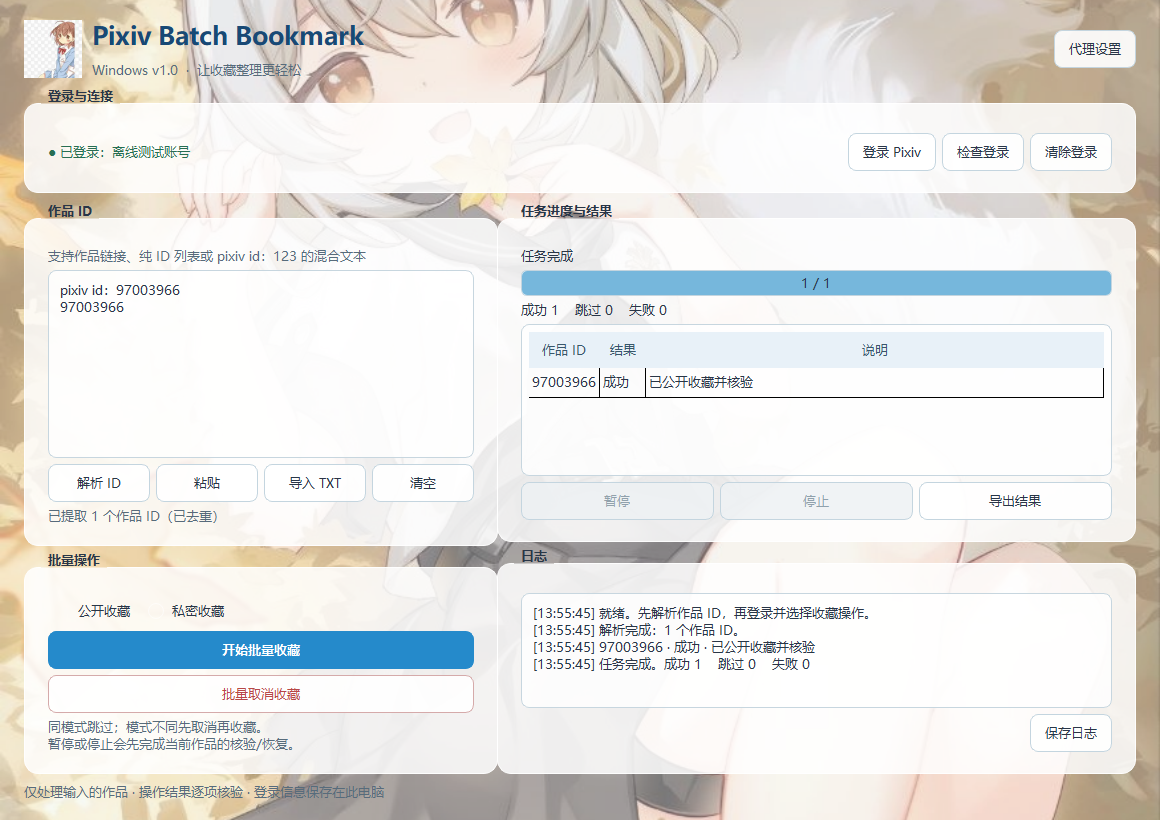
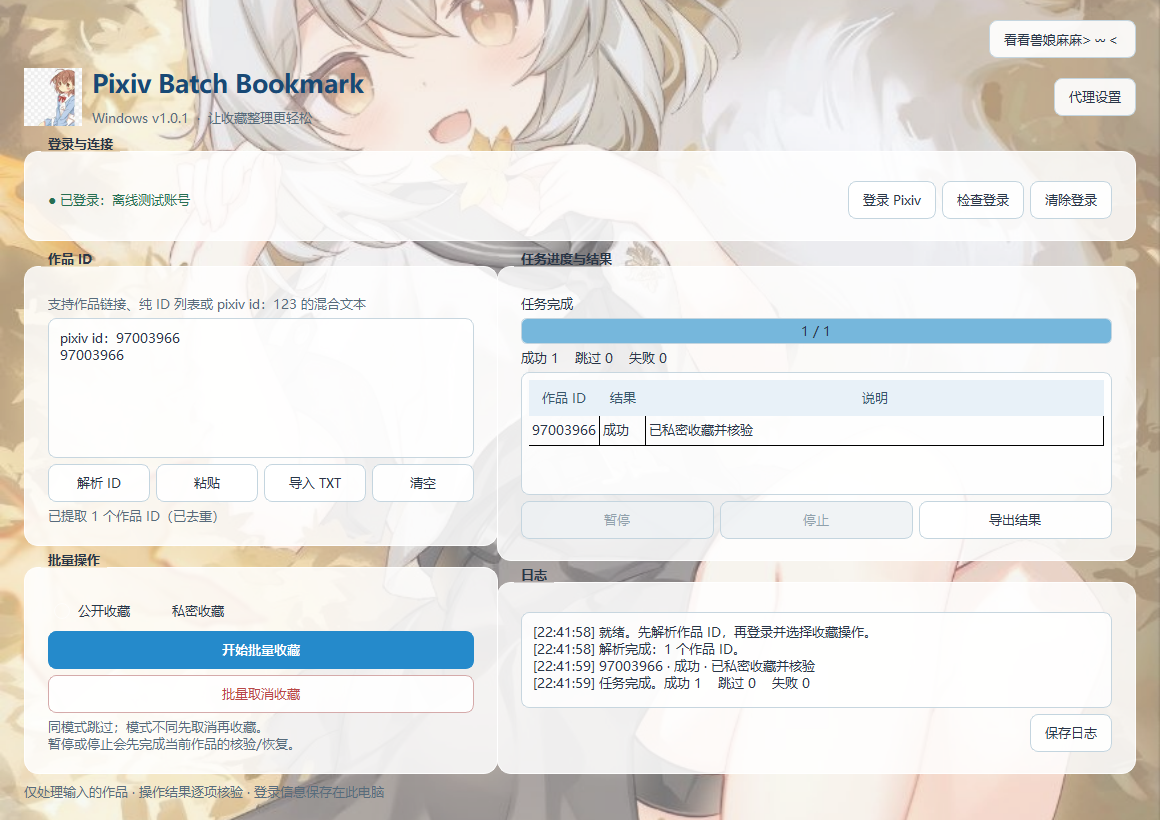
feat: add reversible wallpaper view toggle

diff --git a/ui/window.py b/ui/window.py
@@ -12,7 +12,7 @@ from PySide6.QtWidgets import (QApplication, QDialog, QFileDialog, QGroupBox, QH
     QProgressBar, QPushButton, QRadioButton, QSplitter, QTableWidget, QTableWidgetItem,
     QVBoxLayout, QWidget)
 
-from app_config import load_settings, resource_path, save_settings, user_data_dir
+from app_config import VERSION, load_settings, resource_path, save_settings, user_data_dir
 from pixiv.browser import BrowserSession
 from pixiv.parser import parse_ids
 from ui.controller import BatchController
@@ -49,14 +49,25 @@ class ThemeWidget(QWidget):
     def __init__(self, parent=None):
         super().__init__(parent)
         self.background = QPixmap(str(resource_path('background.png')))
+        self.wallpaper_only = False
+
+    def set_wallpaper_only(self, enabled):
+        self.wallpaper_only = enabled
+        self.update()
 
     def paintEvent(self, event):
         painter = QPainter(self)
+        if self.wallpaper_only:
+            painter.fillRect(self.rect(), QColor(42, 33, 35))
         if not self.background.isNull():
-            image = self.background.scaled(self.size(), Qt.AspectRatioMode.KeepAspectRatioByExpanding,
+            # 展示模式保留完整原图；正常模式继续填满窗口，作为控件背景。
+            aspect = (Qt.AspectRatioMode.KeepAspectRatio if self.wallpaper_only
+                      else Qt.AspectRatioMode.KeepAspectRatioByExpanding)
+            image = self.background.scaled(self.size(), aspect,
                                            Qt.TransformationMode.SmoothTransformation)
             painter.drawPixmap((self.width() - image.width()) // 2, (self.height() - image.height()) // 2, image)
-        painter.fillRect(self.rect(), QColor(238, 244, 249, 105))
+        if not self.wallpaper_only:
+            painter.fillRect(self.rect(), QColor(238, 244, 249, 105))
         painter.end()
 
 
@@ -93,7 +104,7 @@ def button(label, callback, name=''):
 class MainWindow(QMainWindow):
     def __init__(self, session=None, offline=False):
         super().__init__()
-        self.setWindowTitle('PixivBatchBookmark Windows v1.0')
+        self.setWindowTitle(f'PixivBatchBookmark Windows v{VERSION}')
         self.setWindowIcon(QIcon(str(resource_path('icon.ico'))))
         self.resize(1160, 820)
         self.setMinimumSize(960, 720)
@@ -121,8 +132,19 @@ class MainWindow(QMainWindow):
     def _make_ui(self):
         central = ThemeWidget()
         self.setCentralWidget(central)
-        layout = QVBoxLayout(central)
-        layout.setContentsMargins(24, 20, 24, 20)
+        outer = QVBoxLayout(central)
+        outer.setContentsMargins(24, 20, 24, 20)
+        outer.setSpacing(10)
+        self.wallpaper_button = button('看看兽娘麻麻˃ 𖥦 ˂ ', self.toggle_wallpaper)
+        # 颜文字的补充平面字符由 Windows Historic 字体补齐，避免显示为方框。
+        self.wallpaper_button.setStyleSheet('font-family: "Microsoft YaHei UI", "Segoe UI Historic", "Segoe UI";')
+        self.wallpaper_button.setToolTip('隐藏操作界面，展示完整壁纸；再次点击恢复界面')
+        outer.addWidget(self.wallpaper_button, 0, Qt.AlignmentFlag.AlignRight | Qt.AlignmentFlag.AlignTop)
+        # 只隐藏操作区域，保留同一个窗口和按钮，输入及运行中的任务不受影响。
+        self.interface = QWidget()
+        outer.addWidget(self.interface, 1)
+        layout = QVBoxLayout(self.interface)
+        layout.setContentsMargins(0, 0, 0, 0)
         layout.setSpacing(10)
         header = QHBoxLayout()
         logo = QLabel()
@@ -133,7 +155,7 @@ class MainWindow(QMainWindow):
         title = QLabel('Pixiv Batch Bookmark')
         title.setObjectName('title')
         titles.addWidget(title)
-        subtitle = QLabel('Windows v1.0  ·  让收藏整理更轻松')
+        subtitle = QLabel(f'Windows v{VERSION}  ·  让收藏整理更轻松')
         subtitle.setObjectName('muted')
         titles.addWidget(subtitle)
         header.addLayout(titles)
@@ -253,6 +275,13 @@ class MainWindow(QMainWindow):
         footer.setObjectName('muted')
         layout.addWidget(footer)
         self._set_busy(False)
+
+    def toggle_wallpaper(self):
+        central = self.centralWidget()
+        showing = not central.wallpaper_only
+        central.set_wallpaper_only(showing)
+        self.interface.setVisible(not showing)
+        self.wallpaper_button.setText('再见兽娘麻麻⊙﹏⊙' if showing else '看看兽娘麻麻˃ 𖥦 ˂ ')
 
     def log(self, text):
         self.log_edit.appendPlainText(f'[{datetime.now():%H:%M:%S}] {text}')

diff --git a/main.py b/main.py
@@ -24,7 +24,7 @@ def apply_proxy(value):
 
 
 def main():
-    parser = argparse.ArgumentParser(description='PixivBatchBookmark Windows v1.0')
+    parser = argparse.ArgumentParser(description=f'PixivBatchBookmark Windows v{VERSION}')
     parser.add_argument('--offline', action='store_true', help='启动时不连接 Pixiv，可检查界面和 ID 解析')
     args = parser.parse_args()
     QCoreApplication.setApplicationName(APP_NAME)

diff --git a/app_config.py b/app_config.py
@@ -6,7 +6,7 @@ import sys
 from pathlib import Path
 
 APP_NAME = 'PixivBatchBookmark'
-VERSION = '1.0.0'
+VERSION = '1.0.1'
 
 
 def resource_path(name: str) -> Path:

diff --git a/docs/VERIFICATION.md b/docs/VERIFICATION.md
@@ -18,13 +18,18 @@
 | Cookie 跨进程保存 | 通过，退出码 0 | 本地 HttpOnly 会话 Cookie 在进程正常退出后由第二个进程恢复 |
 | Python 编译检查 | 通过，退出码 0 | 源码语法与导入编译 |
 | PyInstaller 正式构建 | 完成，退出码 0 | 单目录 Windows 程序包含 Python/Qt/Chromium 及主题资源 |
-| 正式 EXE 启动 | 主窗口标题为 PixivBatchBookmark Windows v1.0 | 打包入口及窗口创建成功 |
+| 正式 EXE 启动 | 主窗口标题为 PixivBatchBookmark Windows v1.0.1 | 打包入口及窗口创建成功 |
 | Chromium 辅助进程 | QtWebEngineProcess.exe 启动，父进程为正式 EXE | 打包后的浏览器模块能够初始化 |
 | 正常关闭 | 给本次测试进程的主窗口发送关闭请求后，进程退出 | 本次桌面生命周期检查 |
 | 界面截图 | Qt 主窗口实际渲染并人工查看 | 页面布局、背景、图标与结果显示；账号与结果来自本地 fixture |
 | 原图保护 | 背景副本 SHA-256 与原附件一致，两份原附件均保留 | 原文件没有修改；图标在派生文件中转换 |
+| v1.0.1 壁纸按钮切换 | Qt 实际鼠标点击、往返及反复切换通过 | 仅显示壁纸与右上角返回按钮；恢复操作区域及原输入、ID、模式、结果和日志 |
+| 壁纸模式下继续任务 | 本地 HTTP + Chromium 收藏任务完成 | 隐藏界面不暂停或重建任务，完成结果恢复后仍可见 |
+| 缩放与文字显示 | 960×720、1160×820、1360×900 检查通过 | 返回按钮保持右上角、可见且可点击；中文与指定颜文字正常渲染 |
 
 主界面预览展示本地测试账号及测试结果，不是线上 Pixiv 收藏证明。
+
+v1.0.1 重新执行了 21 项核心测试、11 项 Qt 集成检查、Python 编译检查、正式构建及 EXE 启动/关闭检查。壁纸专项验证使用 Windows Qt 后端在隐藏测试窗口上渲染，未登录真实账号。新 EXE 的启动检查使用独立临时浏览器配置，不读取用户保存的 Pixiv Cookie。Cookie 跨进程验证及原图一致性记录来自同日 v1.0.0 的交付检查；这些相关代码和原图在 v1.0.1 中没有修改。
 
 ## 修复并验证的失败路径
 
